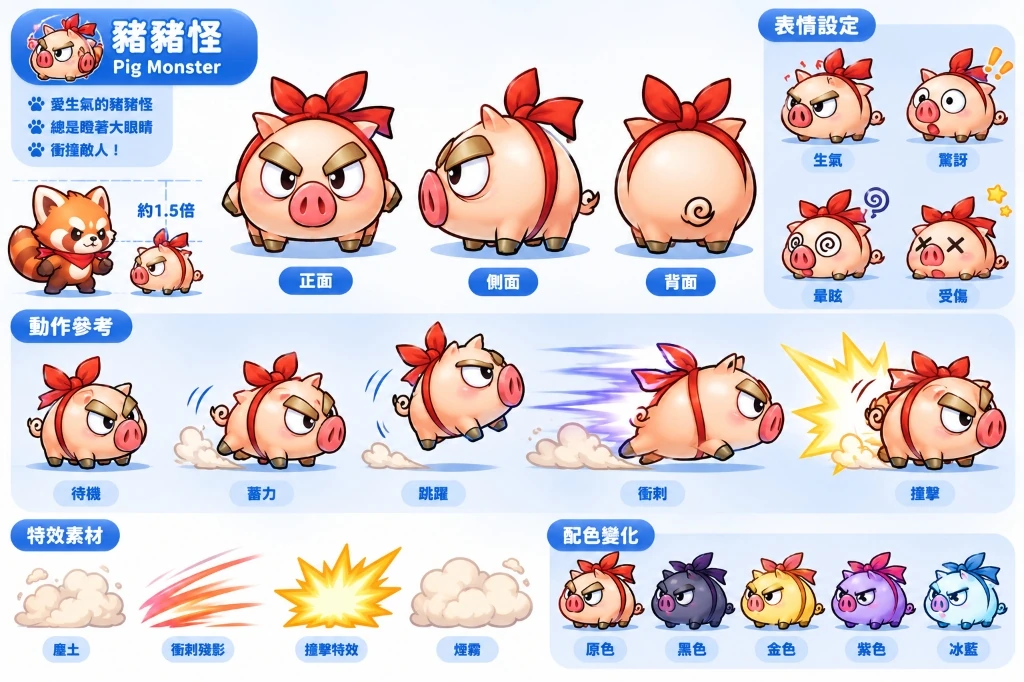
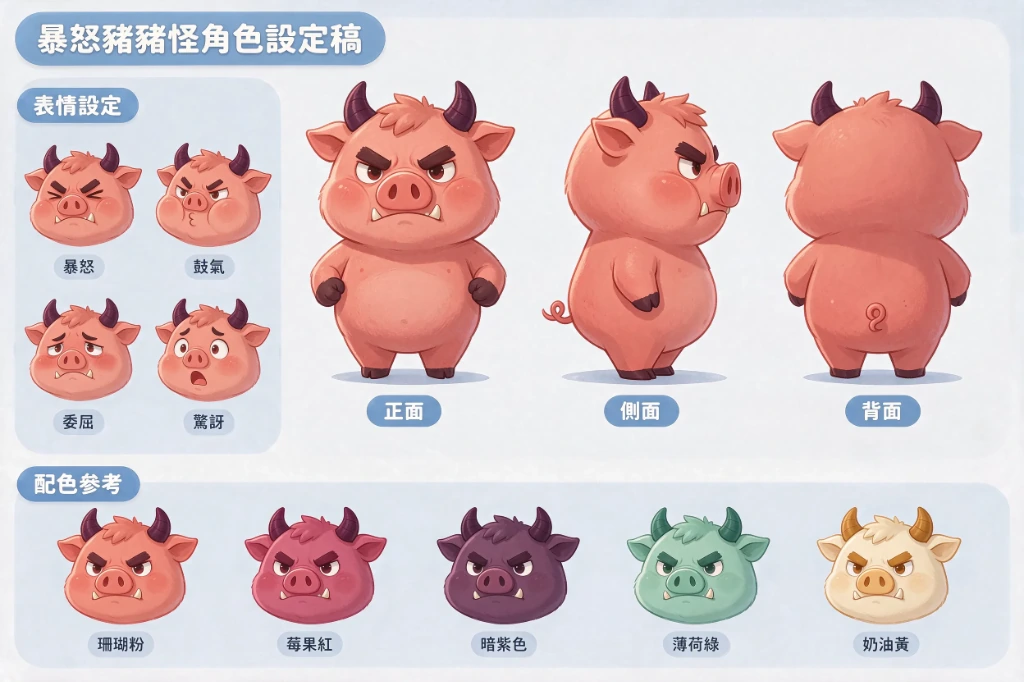
art: redesign angry pig with turnaround and 4 custom 10x1 wide (420x340) sprite sheets

diff --git a/game.js b/game.js
@@ -517,9 +517,10 @@
     { key: 'enemy_sheep_hurt', file: 'assets/enemy_sheep_hurt_sheet.webp', cols: 10, rows: 1, anchorX: 210, anchorY: 304 },
     { key: 'enemy_sheep_ko', file: 'assets/enemy_sheep_ko_sheet.webp', cols: 10, rows: 1, anchorX: 210, anchorY: 304 },
     // Classic Monsters: Full 10-Frame Hand-Drawn HD Sprite Sheets (Pig, Slime, Mushroom, Pufferfish)
-    { key: 'enemy_pig_move', file: 'assets/enemy_pig_move_sheet.webp', cols: 5, rows: 2, anchorX: 150, anchorY: 236 },
-    { key: 'enemy_pig_attack', file: 'assets/enemy_pig_attack_sheet.webp', cols: 5, rows: 2, anchorX: 150, anchorY: 236 },
-    { key: 'enemy_pig_ko', file: 'assets/enemy_pig_ko_sheet.webp', cols: 5, rows: 2, anchorX: 150, anchorY: 236 },
+    { key: 'enemy_pig_move', file: 'assets/enemy_pig_move_sheet.webp', cols: 10, rows: 1, anchorX: 210, anchorY: 304 },
+    { key: 'enemy_pig_attack', file: 'assets/enemy_pig_attack_sheet.webp', cols: 10, rows: 1, anchorX: 210, anchorY: 304 },
+    { key: 'enemy_pig_hurt', file: 'assets/enemy_pig_hurt_sheet.webp', cols: 10, rows: 1, anchorX: 210, anchorY: 304 },
+    { key: 'enemy_pig_ko', file: 'assets/enemy_pig_ko_sheet.webp', cols: 10, rows: 1, anchorX: 210, anchorY: 304 },
     { key: 'enemy_slime_idle', file: 'assets/enemy_slime_idle_sheet.webp', cols: 5, rows: 2, anchorX: 150, anchorY: 236 },
     { key: 'enemy_slime_move', file: 'assets/enemy_slime_move_sheet.webp', cols: 5, rows: 2, anchorX: 150, anchorY: 236 },
     { key: 'enemy_slime_attack', file: 'assets/enemy_slime_attack_sheet.webp', cols: 5, rows: 2, anchorX: 150, anchorY: 236 },

diff --git a/src/game_catalog.js b/src/game_catalog.js
@@ -103,7 +103,7 @@
     enemyChar('enemy_rabbit', '🐰 兔兔怪（5色共用）', 'enemy_rabbit', true, { enemyKey: 'rabbit' }),
     enemyChar('enemy_ghost', '👻 幽靈怪（5色共用）', 'enemy_ghost', true, { enemyKey: 'ghost' }),
     (() => { const c = enemyChar('enemy_sheep', '🐑 綿羊怪（雲球衝鋒・5色共用）', 'enemy_sheep', true, { enemyKey: 'sheep' }); c.actions.forEach((a) => Object.assign(a, { cols: 10, rows: 1, frames: 10 })); return c; })(),
-    enemyChar('enemy_pig', '🐗 暴怒豬豬怪（敵人）', 'enemy_pig', false, { enemyKey: 'pig' }),
+    (() => { const c = enemyChar('enemy_pig', '🐗 暴怒豬豬怪（雙角衝撞・敵人）', 'enemy_pig', true, { enemyKey: 'pig' }); c.actions.forEach((a) => Object.assign(a, { cols: 10, rows: 1, frames: 10 })); return c; })(),
     {
       id: 'enemy_slime', name: '💧 藍色水滴史萊姆（敵人）', role: 'monster', enemyKey: 'slime', builtin: true,
       actions: [
